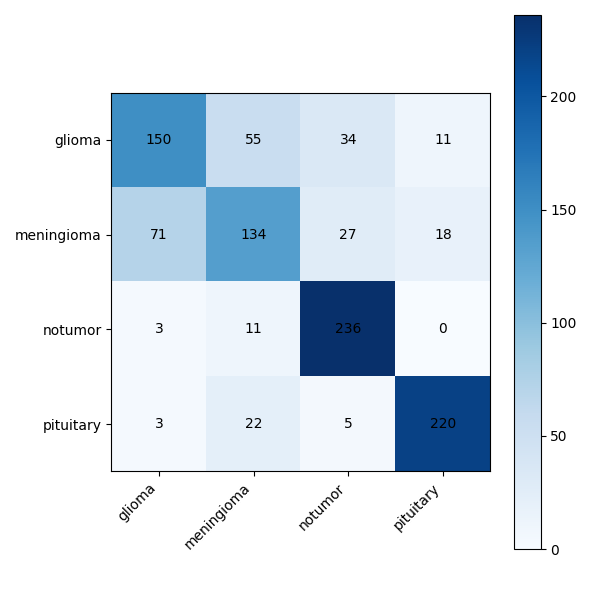
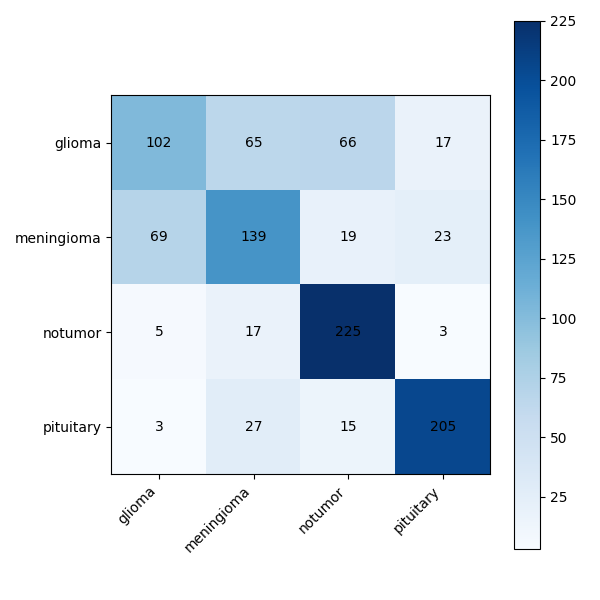
chore: add confusion_recon.png and tta TTA helper script

diff --git a/scripts/tta_logit_unsharp_tempcal.py b/scripts/tta_logit_unsharp_tempcal.py
@@ -5,7 +5,10 @@ import joblib
 from scipy.ndimage import laplace
 
 
-def tta_transforms(im):
+def tta_transforms(im, dual_view=False):
+    # conservative dual-view: original + horizontal flip only
+    if dual_view:
+        return [im, np.fliplr(im)]
     outs = [im]
     outs.append(np.fliplr(im))
     outs.append(np.flipud(im))
@@ -25,7 +28,9 @@ def unsharp_laplacian(im, amount=1.0):
     return enhanced
 
 
-def predict_with_logit_averaging(model, image_paths, size=(64, 64), amount=1.0, T=1.0):
+def predict_with_logit_averaging(
+    model, image_paths, size=(64, 64), amount=1.0, T=1.0, dual_view=False
+):
     # model: a wrapper with decision_function
     all_probs = []
     for p in image_paths:
@@ -34,7 +39,7 @@ def predict_with_logit_averaging(model, image_paths, size=(64, 64), amount=1.0, 
         im = im.astype("float32") / 255.0
         # apply unsharp laplacian to refocus
         im = unsharp_laplacian(im, amount=amount)
-        tts = tta_transforms(im)
+        tts = tta_transforms(im, dual_view=dual_view)
         logits_list = []
         for t in tts:
             x = t.ravel()[None, :]
@@ -59,8 +64,13 @@ def main():
     parser.add_argument("--model-joblib", required=True)
     parser.add_argument("--images", required=True)
     parser.add_argument("--out", default="outputs/analysis")
-    parser.add_argument("--amount", type=float, default=1.0)
-    parser.add_argument("--T", type=float, default=1.0)
+    parser.add_argument("--amount", type=float, default=4.0)
+    parser.add_argument("--T", type=float, default=1.3)
+    parser.add_argument(
+        "--dual-view",
+        action="store_true",
+        help="Use only original and horizontal flip transforms",
+    )
     parser.add_argument("--size", type=int, default=64)
     args = parser.parse_args()
 
